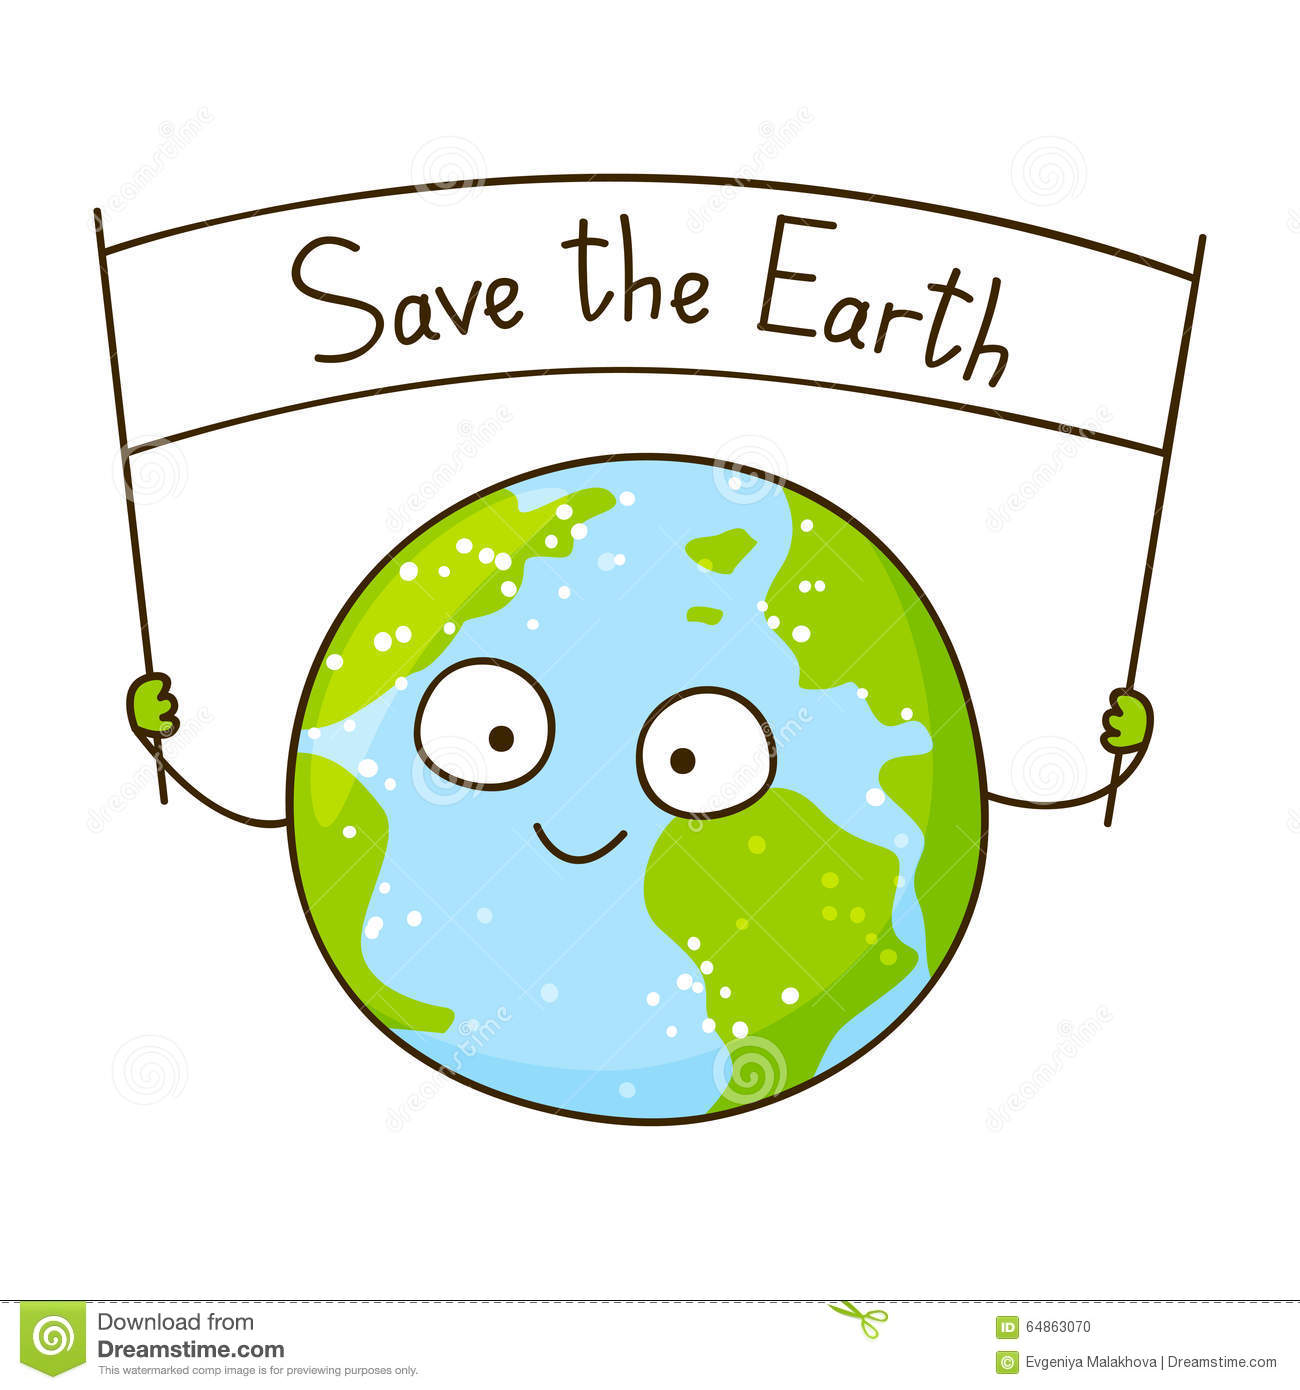
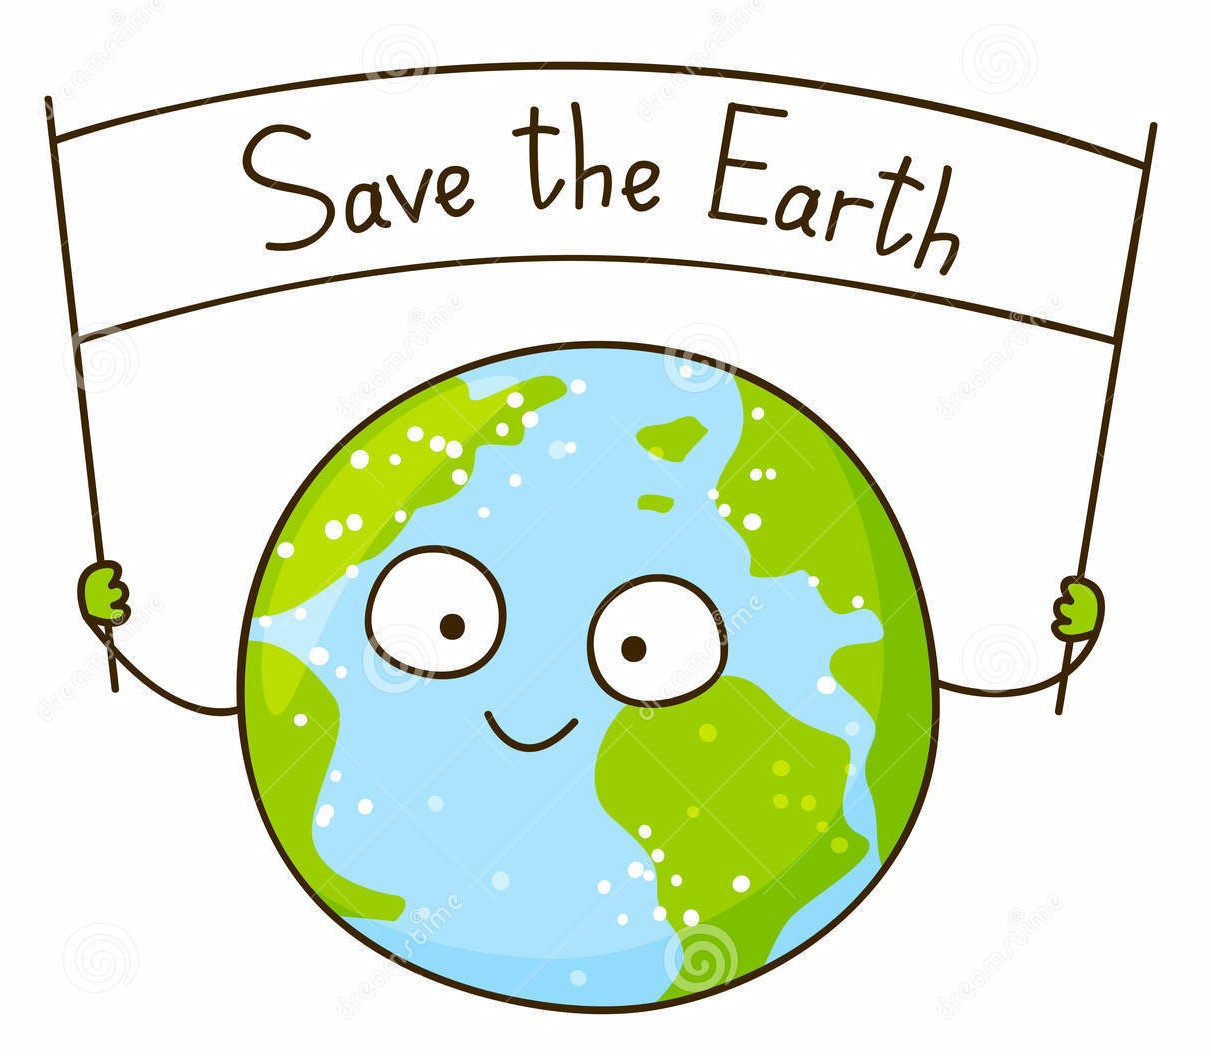
resize

Changed region(s): [[0.0306, 0.0311, 0.9777, 0.9642], [0.0, 0.9331, 0.3055, 0.9953], [0.7638, 0.9331, 0.9777, 0.9953]]

diff --git a/newMeindex.html b/newMeindex.html
@@ -95,7 +95,7 @@
           <div class="card-header bg-transparent text-center">
 
           <!--<img class="profile_img" src="https://source.unsplash.com/600x300/?student" alt="student dp">-->
-<img class = "profile_img" src = "earth_1.jpg" alt = "student dp" height = 200 width = 200>
+<img class = "profile_img" src = "earth_1.jpg" alt = "student dp" height = 170 width = 170>
 
 
 
